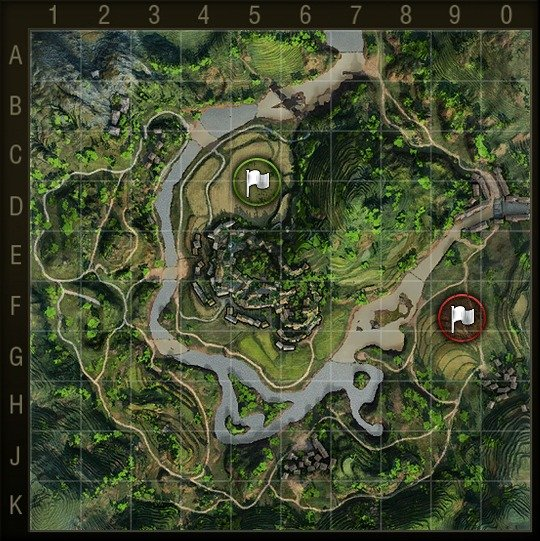
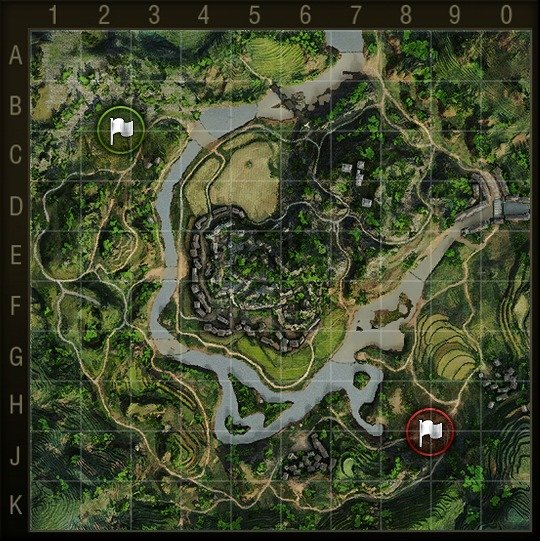
updated maps for v0.9.0

diff --git a/index.html b/index.html
@@ -1,6 +1,6 @@
 <html>
 <body>
-<h1>World of Tanks (version 0.8.11) minimaps</h1>
+<h1>World of Tanks (version 0.9.0) minimaps</h1>
 
 <p>Maps generated using <a href=https://github.com/Kuitsi/WotMiniMapMaker>WotMiniMapMaker</a>.<br />
 Team 1 = green, Team 2 = red.</p>
